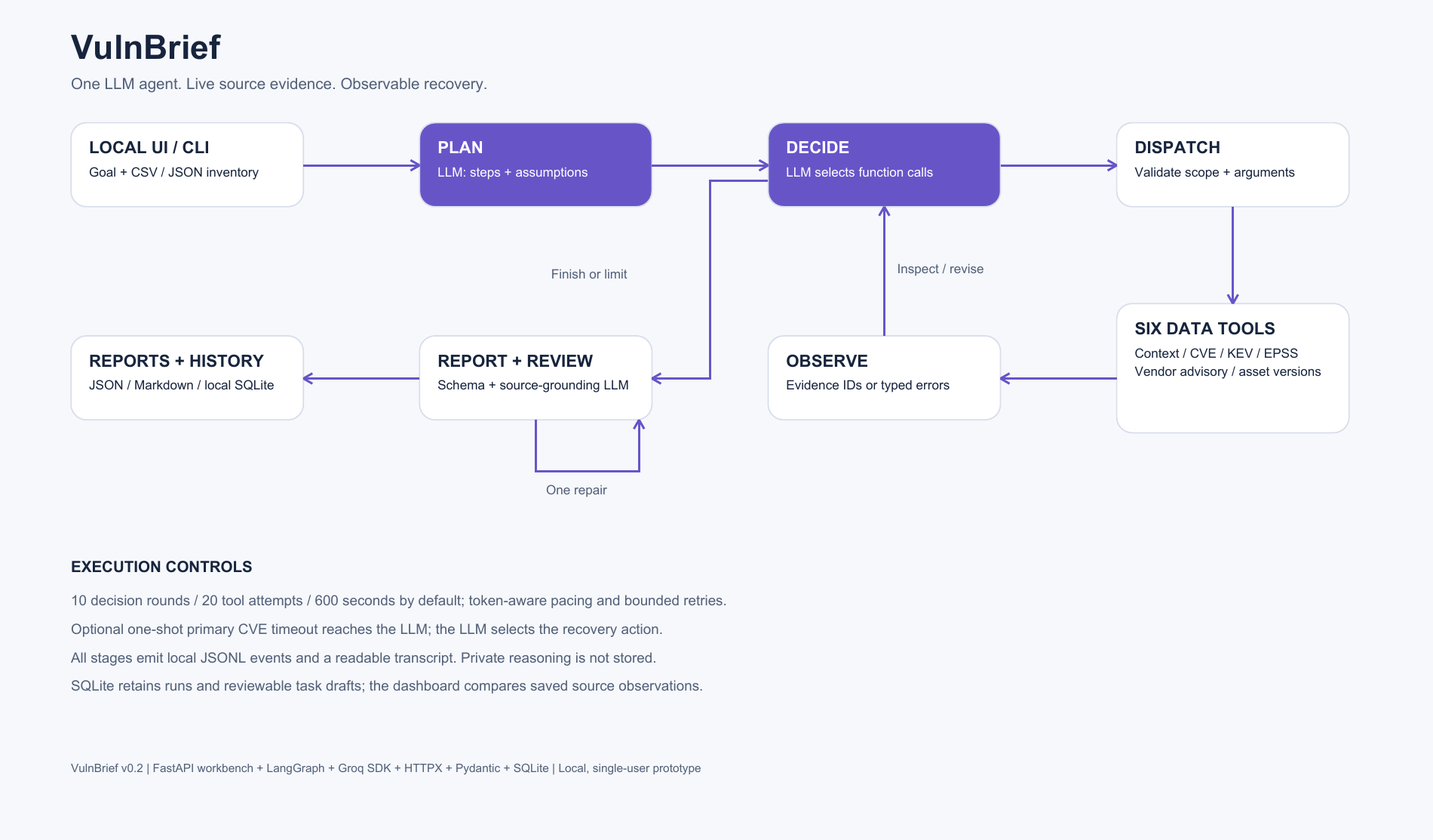
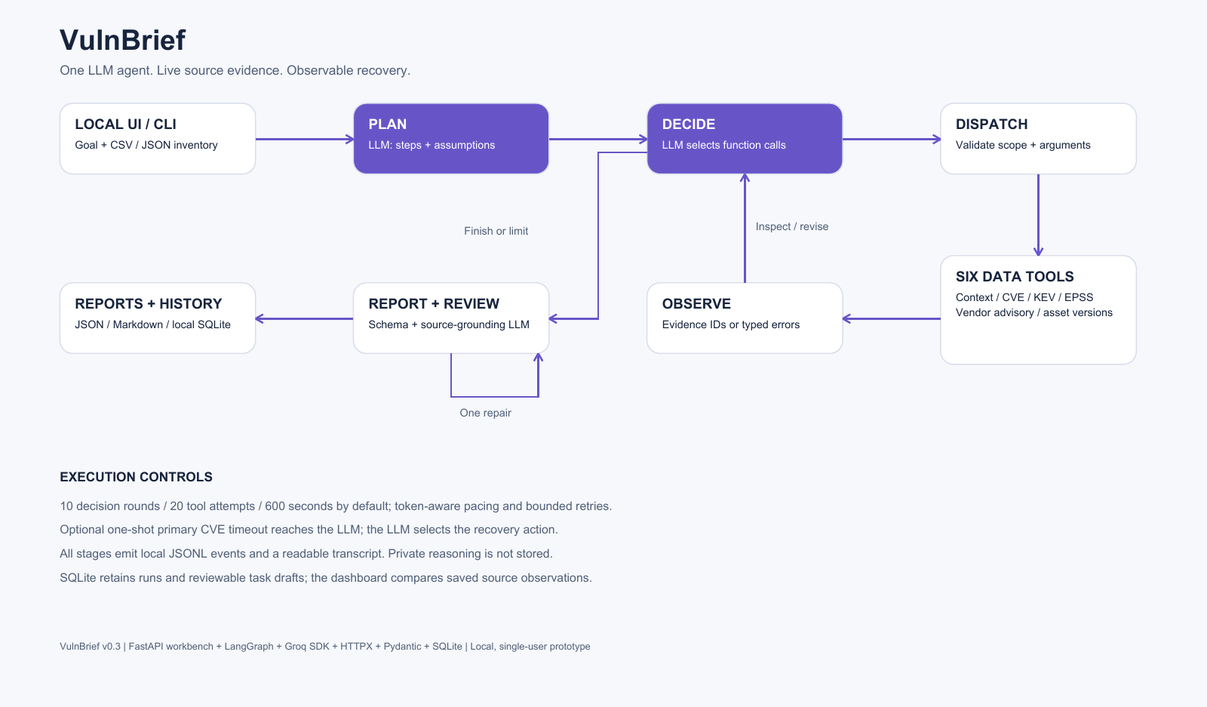
docs(release): publish v0.3 reviewer guidance and verification limits
Lead the README with a genuine workbench screenshot and the recorded walkthrough.
Document exact citation inspection, unknown-data handling, key-free review paths,
browser checks and the separately installed wheel verification.

Refresh the one-page design and architecture, keep source packaging below 10 MB,
and disclose every live evaluation outcome including provider quota exhaustion.
Preserve historical reports and distinguish automated checks from semantic truth,
accessibility certification and production reliability.

diff --git a/scripts/package_submission.py b/scripts/package_submission.py
@@ -6,10 +6,11 @@ BASE = Path(__file__).resolve().parents[1]
 ROOT_FILES = {"README.md", "pyproject.toml", "requirements-lock.txt", ".gitignore", ".gitattributes",
               ".env.example", "CHANGELOG.md", "CONTRIBUTING.md", "SECURITY.md"}
 ALLOWED = {
-    "src": {".py", ".html", ".css", ".js"}, "tests": {".py", ".txt"}, "examples": {".json", ".md", ".csv"},
+    "src": {".py", ".html", ".css", ".js", ".mjs"}, "tests": {".py", ".txt"}, "examples": {".json", ".md", ".csv"},
     "docs": {".md", ".txt", ".mmd", ".png", ".pdf"},
     "artifacts": {".md", ".json", ".jsonl"}, "scripts": {".py"},
     ".github": {".md", ".yml"},
+    "ui-tests": {".mjs", ".json", ".md"},
 }
 
 
@@ -18,7 +19,7 @@ def package(destination: Path):
     paths = [BASE / name for name in sorted(ROOT_FILES)]
     for folder, suffixes in ALLOWED.items():
         paths.extend(p for p in (BASE / folder).rglob("*") if p.is_file()
-                     and p.suffix in suffixes and "__pycache__" not in p.parts)
+                     and p.suffix in suffixes and not set(p.parts)&{'__pycache__','node_modules','test-results','playwright-report'})
     with zipfile.ZipFile(destination, "w", zipfile.ZIP_DEFLATED) as archive:
         for p in paths:
             if p.exists():
@@ -32,4 +33,4 @@ def package(destination: Path):
 
 
 if __name__ == "__main__":
-    package(BASE.parent / "output" / "vulnbrief-v02-submission.zip")
+    package(BASE.parent / "output" / "vulnbrief-v03-submission.zip")

diff --git a/scripts/build_docs.py b/scripts/build_docs.py
@@ -73,7 +73,7 @@ def architecture():
         "All stages emit local JSONL events and a readable transcript. Private reasoning is not stored.",
         "SQLite retains runs and reviewable task drafts; the dashboard compares saved source observations."]):
         c.drawString(55,181-i*22,line)
-    c.setFont("Helvetica",9); c.drawString(55,52,"VulnBrief v0.2 | FastAPI workbench + LangGraph + Groq SDK + HTTPX + Pydantic + SQLite | Local, single-user prototype")
+    c.setFont("Helvetica",9); c.drawString(55,52,"VulnBrief v0.3 | FastAPI workbench + LangGraph + Groq SDK + HTTPX + Pydantic + SQLite | Local, single-user prototype")
     c.save()
 
 

diff --git a/README.md b/README.md
@@ -1,14 +1,20 @@
-# VulnBrief v0.2
+# VulnBrief v0.3
 
 [![CI](https://github.com/Avan1sh/vulnbrief/actions/workflows/ci.yml/badge.svg)](https://github.com/Avan1sh/vulnbrief/actions/workflows/ci.yml)
 ![Python 3.10+](https://img.shields.io/badge/Python-3.10%2B-3776AB)
-![Release 0.2.0](https://img.shields.io/badge/Release-0.2.0-68794E)
+![Release 0.3.0](https://img.shields.io/badge/Release-0.3.0-68794E)
 
 A single LLM agent that investigates a small CVE watchlist, chooses live tools, revises its actions after failures, and produces an evidence-linked prioritization report.
 
 The upgraded local workbench adds asset/version checks, current vendor guidance, field-level recommendation citations, reviewable task drafts, persistent investigation history, and snapshot comparisons. Version applicability is a deliberately narrow PAN-OS pilot; unsupported cases remain unverified.
 
 The model makes the plan, tool selections, priorities and recommendations. Python validates inputs, executes read-only tools, records evidence and bounds the run. No stored answers, canned report mode, severity-to-priority lookup table, or copied public agent implementation is used.
+
+![Actual VulnBrief workbench showing three recorded investigations and a selected asset analysis](docs/screenshots/workbench.png)
+
+[Watch the actual 90-second walkthrough](https://github.com/Avan1sh/vulnbrief/releases/download/v0.3.0/vulnbrief-demo.webm) · [Inspect a cited source value](docs/screenshots/evidence-inspector.png) · [Phone layout](docs/screenshots/mobile.png)
+
+The silent video shows the real local application opening recorded LLM/source runs. It makes no new LLM requests and is labeled accordingly. Video is distributed separately as a release asset to keep the assessment source ZIP below 10 MB.
 
 ## Review the project
 
@@ -64,9 +70,13 @@ If the default model's quota is unavailable, set `VULNBRIEF_MODEL=openai/gpt-oss
 
 Open [the local dashboard](http://127.0.0.1:8787). It provides goal entry, CSV/JSON inventory selection, model selection, live execution events, findings, asset assessments, expandable source observations, artifact downloads, task review/export, and two-run comparisons. It uses FastAPI with a small HTML/CSS/JavaScript frontend, without a Node build step. Binding is restricted to localhost. This is a single-user prototype; do not expose it as a public service.
 
+Start with **Asset investigation**, **Failure recovery**, or **Missing information**. Each opens an explicitly dated original run without using a key. The six-step **guided tour** visits the version outcomes, an exact citation, the injected timeout, unknown information, task drafts, and live-input controls. It never starts a new investigation. The default selection is the successful asset demonstration; all development failures remain in the filterable history.
+
+Click a citation to open the evidence inspector. It places the selected claim beside the original source field, source URL, retrieval timestamp and source date; missing null values stay visible. Escape closes the dialog and returns keyboard focus. The KEV summary distinguishes retrieved catalog absence from missing or conflicting observations. Tabs support arrow keys, and drafts show the selected investigation unless **Show all investigations** is enabled.
+
 Use **Use fictional example** to load `examples/asset_inventory.csv`. That inventory includes a potentially affected version, a version matching the vendor's unaffected range, and a missing version. No real asset is scanned. Inventory context is included in requests to the configured LLM; use synthetic/non-sensitive inputs for the assessment.
 
-One worker executes investigations sequentially, with at most three queued/running jobs. Credentials stay server-side and are not returned by the API. Cross-origin mutation requests are rejected. Model/source text is rendered as text rather than executable HTML. Browser visual verification was blocked by the Computer Use URL-confidence check; API tests, HTML/JS reference checks, and JavaScript syntax checks are recorded separately.
+One worker executes investigations sequentially, with at most three queued/running jobs. Credentials stay server-side and are not returned by the API. Cross-origin mutation requests are rejected. Model/source text is rendered as text rather than executable HTML. v0.3 adds isolated Chromium checks at 1440, 768 and 390 pixels, automated accessibility scans, keyboard/modal checks and inspected real screenshots. These checks do not constitute full accessibility certification or cross-browser coverage. See the [verification record](docs/verification-v03.md).
 
 ## Asset assessment and current advisories
 
@@ -159,6 +169,8 @@ Specify up to three CVEs in the goal, the context file, or both. Context format:
 - Failed requests have a separate `ERR...` namespace with tool arguments, code and time; errors never consume or invalidate successful `E...` evidence IDs.
 - Summaries and recommended actions cite JSON-pointer paths directly inside `evidence.data`. References are checked for existence and CVE/asset-row scope. Action prerequisites are required. Valid pointers make support inspectable; they are not a semantic proof.
 - If an action names a concrete version, the same version must occur in its cited source values. Runtime-generated `version_citations` help prevent selecting a neighboring fixed-version entry. This check does not prove every natural-language inference or version-range statement.
+- An additional guard checks common upgrade/install wording: a named target must cite its exact current vendor `fixed_version_candidates` entry. An affected-version description cannot supply that proof. This lexical check is deliberately narrow; it is not a complete natural-language verifier.
+- A selected inventory that was not read and assessed prevents complete status. Plan JSON gets at most one schema correction before data tools; provider failures still stop explicitly. The model chooses its tools and next actions.
 - Source-assigned CVSS values are attached directly by the runtime and displayed separately from the LLM's priority judgment. Missing source severity is not filled with an invented metric.
 - Failed KEV retrieval is unknown, not absence. Catalog absence does not prove no exploitation.
 - Missing EPSS remains null. EPSS is general exploitation likelihood over the next 30 days, not the probability a particular asset will be compromised.
@@ -186,7 +198,21 @@ Upgrade regressions also cover hotfix boundaries, unsupported branches, CSV pars
 
 Real sample runs and actual metrics are in [sample runs](artifacts/sample-runs.md) and [evaluation summary](artifacts/evaluation-summary.md). Raw events and the full structured source observations are included alongside each report. These artifacts are examples, not the source of runtime responses. A three-run sample cannot establish production reliability or classifier precision/recall.
 
-The unit/API suite needs no API key. [GitHub Actions](https://github.com/Avan1sh/vulnbrief/actions) runs those checks on Ubuntu with Python 3.10/3.12 and Windows with Python 3.10, checks frontend syntax/publication hygiene, and builds a wheel. Live LLM runs remain separate. See [contributing](CONTRIBUTING.md), [security scope](SECURITY.md), and [changelog](CHANGELOG.md).
+The unit/API suite needs no API key. [GitHub Actions](https://github.com/Avan1sh/vulnbrief/actions) runs those checks on Ubuntu with Python 3.10/3.12 and Windows with Python 3.10, checks presentation logic/publication hygiene, and builds a wheel. A separate Ubuntu job exercises the actual reviewer flow and automated accessibility checks in Chromium. Live LLM evaluation remains separate. See [contributing](CONTRIBUTING.md), [security scope](SECURITY.md), and [changelog](CHANGELOG.md).
+
+## Repeated-trial agent evaluation
+
+[Eight self-authored cases](examples/evaluation-suite.json) define observable expectations for missing records, unsupported vendors, version boundaries, timeout recovery, unknown versions, context injection, mixed watchlists and scope limits. They prescribe neither a fixed tool sequence nor a fixed priority/answer. The [executed v0.3 batch](artifacts/evaluation-v03/summary.md) records each actual trial, checks, model, runtime fingerprint, bounds, tokens and latency. Defined cases that were not executed are not counted as successful tests.
+
+```powershell
+.\.venv\Scripts\python.exe scripts/evaluate_agent.py --cases missing_record,unsupported_vendor,scope_guard --trials 2 --max-total-tokens 80000 --output artifacts/my-new-evaluation
+```
+
+This uses real Groq requests and live public sources; configure your own key and use a **new** output directory. The token limit is checked between trials and may be exceeded by the last trial. Each trial is additionally bounded to eight decision rounds, twelve data-tool attempts and 480 seconds by default. Daily quota exhaustion stops the batch explicitly. No source responses or LLM outputs are mocked or replayed by this harness. Unit tests separately verify the grading logic with synthetic events.
+
+The checks grade scope, references, required tool coverage, unknown-value preservation, accepted review and the observed recovery sequence as applicable. They do not establish that every natural-language claim is true. No semantic claim-accuracy score, classifier precision/recall or production reliability estimate is fabricated. Failed runs and unexecuted planned trials stay visible in the summary.
+
+The first batch exposed skipped inventory, a plan-schema failure and an unsupported fixed-version inference. [Findings and the resulting fixes](docs/evaluation-findings-v03.md) link the original failures and separately fingerprinted follow-up trials. The model can still fail citation validation; such runs are retained as failures rather than silently published as accepted reports.
 
 ## Code map
 

diff --git a/docs/release-notes.md b/docs/release-notes.md
@@ -1,4 +1,4 @@
-# VulnBrief 0.2.0
+# VulnBrief 0.3.0
 
 VulnBrief is a bounded LLM agent for vulnerability investigation and asset-aware
 triage. It plans from a natural-language goal, chooses live tools, observes their
@@ -6,6 +6,12 @@ results, and produces an evidence-linked report with explicit uncertainty.
 
 ## Included
 
+- A reviewer landing page and six-step tour of explicitly dated recorded real
+  investigations, with no new LLM requests during playback.
+- An accessible exact-field evidence inspector, unknown-aware KEV summaries,
+  filtered history and responsive desktop/tablet/phone layouts.
+- Genuine screenshots and a silent 90-second WebM walkthrough. The large video
+  is a separate release asset to keep the source ZIP below 10 MB.
 - Live CVE, CISA KEV, FIRST EPSS and supported vendor advisory tools.
 - A narrow PAN-OS version pilot with affected, version-unaffected and unverified
   outcomes based on retrieved vendor tables.
@@ -15,6 +21,8 @@ results, and produces an evidence-linked report with explicit uncertainty.
   and source/asset comparisons.
 - Source code, setup instructions, architecture image, a one-page design write-up,
   tests, and genuine demonstration traces, including retained failed attempts.
+- A repeatable live evaluation harness with eight defined cases, two-trial
+  batches, runtime fingerprints and explicit behavioral checks.
 
 ## Run locally
 
@@ -28,18 +36,39 @@ After installing and configuring `.env`, run `python -m vulnbrief serve --port
 
 ## Validation
 
-- Retained local result: **46 tests passed**.
+- **57 Python/API tests, eight presentation tests and nine browser tests passed**
+  locally. The browser suite also passed against the separately installed wheel.
 - Separate wheel installation and dependency checks passed.
 - Three selected real upgraded runs: complete asset investigation, complete
   injected-timeout recovery, and partial missing-data investigation.
-- Public API/static frontend checks passed. Browser visual verification was not
-  completed because the automation could not establish the active URL confidently.
+- Isolated Chromium checks passed at desktop, tablet and phone widths, including
+  automated accessibility scans and keyboard/modal behavior. Real screenshots,
+  video frames and the one-page PDF were visually inspected. This is not full
+  accessibility certification or coverage of every browser engine.
 - GitHub CI results are reported by the repository workflow, separately from
   recorded local checks.
 
 See [sample evidence](https://github.com/Avan1sh/vulnbrief/blob/main/artifacts/sample-runs.md),
 [engineering evaluation](https://github.com/Avan1sh/vulnbrief/blob/main/artifacts/evaluation-summary.md),
 and [source-support limits](https://github.com/Avan1sh/vulnbrief/blob/main/docs/source-review.md).
+
+## What the broader evaluation found
+
+The original six-trial batch includes four real LLM/live-source investigations
+and two scope guards with zero LLM calls. Missing-data handling and scope guards
+passed their applicable checks. Unsupported-vendor trials exposed skipped
+inventory, a schema failure and an unsupported upgrade inference.
+
+Those findings prompted a bounded plan correction, stricter inventory completeness
+and named upgrade-target validation. Both follow-up trials read and assessed the
+inventory; one then failed citation validation and the other exhausted the free
+provider's daily quota. Neither is presented as a completed successful report.
+The two runtimes and budgets are recorded separately. Read
+[the full findings](https://github.com/Avan1sh/vulnbrief/blob/main/docs/evaluation-findings-v03.md).
+
+Free API quota may be unavailable after repeated evaluations. Recorded examples
+remain usable without a key or new LLM calls. No aggregate production reliability
+or classifier precision/recall claim is made.
 
 ## Boundaries
 

diff --git a/docs/verification-v03.md b/docs/verification-v03.md
@@ -1,0 +1,55 @@
+# v0.3 verification record
+
+The v0.2 browser check was blocked by its Computer Use active-URL confidence
+check. v0.3 uses an isolated, development-only Playwright Chromium instance with
+a fresh profile against the localhost QA server. It does not operate the user's
+personal browser session. No screenshot or demo output was generated with AI.
+
+## Completed checks
+
+- Python/API regressions: see `tests/test-results.txt`.
+- Eight Node presentation tests cover missing/partial/conflicting KEV observations,
+  successful evidence after a failure, and runtime phase labels.
+- Nine browser tests cover actual retained-run navigation, no new LLM calls during
+  the tour, exact citation inspection, Escape/focus return, keyboard tabs, retained
+  failures, mobile dialog size, and the unknown-KEV regression.
+- The same nine checks also passed against a separately installed 0.3.0 wheel on
+  the normal localhost dashboard port; package dependencies passed `pip check`.
+- Automated axe WCAG A/AA-tagged checks passed on the loaded findings page at
+  1440, 768 and 390 CSS pixels, and inside the mobile citation dialog.
+- Real screenshots of the workbench, investigation, inspector and phone page were
+  captured and visually inspected. Screenshot files are in `docs/screenshots/`.
+- A genuine silent 90-second browser walkthrough opens the same retained runs.
+  `artifacts/demo-recording.json` records its provenance and scene times. It starts
+  zero new LLM investigations. The large video is a separate release asset.
+- The refreshed design PDF remains one A4 page and was rendered and inspected.
+
+The checks exposed Windows serving `.mjs` as text/plain and insufficient contrast
+in table headings. Both were fixed before the passing run. Earlier failed test
+artifacts remain in the ignored local browser-test output; the public report
+records the final run.
+
+## Reproduce
+
+Install the Python package and Node 24+, activate that Python virtual environment,
+then run from `ui-tests/`:
+
+```text
+npm ci
+npx playwright install chromium
+npm run test:logic
+npm test
+```
+
+Playwright starts a localhost server automatically unless an existing QA server
+is available. On Linux CI, use `npx playwright install --with-deps chromium`.
+`npm run capture` records genuine UI screenshots and the video. The tools are
+development dependencies; the application itself needs no Node runtime.
+
+## Boundaries
+
+Automated scans do not prove complete accessibility. Browser tests use Chromium,
+not every engine or assistive technology. The loaded page contains public CVE
+observations and fictional assets. UI/API checks exercise navigation and contracts;
+they do not prove semantic claim accuracy or real device applicability. Repeated
+live evaluations have a separate quota-bounded report and are not triggered by CI.

diff --git a/docs/interview-guide.md b/docs/interview-guide.md
@@ -1,10 +1,26 @@
 # Explaining VulnBrief
 
+## v0.3 reviewer and evaluation additions
+
+Use the recorded-run cards and guided tour to demonstrate actual prior executions
+without spending API quota. Open a citation in the inspector and distinguish the
+selected claim, exact source value, source date and retrieval time. Explain why
+missing KEV evidence shows Unknown and why a valid pointer is not semantic proof.
+
+The repeated evaluation retains six original trials and two separately recorded
+follow-ups. Two original trials are scope guards with zero LLM requests. Read
+`evaluation-findings-v03.md`: skipped inventory, a plan-schema error and an unsafe
+fixed-version inference motivated bounded corrections and stricter validation.
+The follow-ups inspected inventory but one failed citation validation and the
+other exhausted free quota. Do not describe those as successful reports or claim
+an overall model reliability percentage. Describe what was learned and what still
+needs independent validation.
+
 ## v0.2 additions to demonstrate
 
 Open the local workbench with `python -m vulnbrief serve`. Load the fictional CSV and show its three version outcomes. Open a recommendation's exact source field and distinguish source-assigned CVSS from the model's priority. Explain why version arithmetic is an execution tool, while investigation order and advice come from the LLM. Show local task review/export, then compare saved observations. Clarify that draft acceptance executes no system change, and edit-and-rerun starts a fresh investigation rather than resuming an LLM checkpoint.
 
-The new ERR identifiers prevent request failures from being confused with successful E evidence. Source-field existence and concrete version matching are deterministic checks, while model review remains fallible. The vendor pilot supports PAN-OS only. Browser visual verification was blocked by Computer Use's active-URL check; do not claim that visual test was completed.
+The ERR identifiers prevent request failures from being confused with successful E evidence. Source-field existence and concrete version matching are deterministic checks, while model review remains fallible. The vendor pilot supports PAN-OS only. The v0.2 Computer Use check was blocked; v0.3 subsequently completed isolated Chromium checks and screenshot inspection, with the limits recorded in verification-v03.md.
 
 ## 60-second introduction
 

diff --git a/docs/submission-fields.md b/docs/submission-fields.md
@@ -10,13 +10,13 @@ Review these against the actual form before submitting. This guide does not subm
 
 **Architecture upload:** `docs/architecture.png`.
 
-**Sample transcripts/logs:** `artifacts/sample-runs.md` combines the selected actual runs. Individual raw events, transcripts and reports are retained in the corresponding artifact directories. Earlier development runs are labeled separately in the evaluation summary.
+**Sample transcripts/logs:** `artifacts/sample-runs.md` combines the selected actual runs. Individual raw events, transcripts and reports are retained in the corresponding artifact directories. v0.3 adds repeated trials in `artifacts/evaluation-v03/` and separately recorded post-fix trials in `artifacts/evaluation-v03-followup/`; failures are disclosed in `docs/evaluation-findings-v03.md`.
 
 **Design write-up:** `docs/design-writeup.pdf` (one page), with matching text source.
 
 **Source:** GitHub repository: https://github.com/Avan1sh/vulnbrief. Use the public repository link in the code-link field once publication is verified. The release source ZIP provides the same source, documentation, tests and demonstration evidence without credentials or local runtime state.
 
-**Synthetic/test traces and labels:** `examples/scenarios.json` describes the self-authored goals, synthetic context, injected fault and expected observable behavior. The corresponding actual execution events are under `artifacts/`. Labels concern engineering behavior, not a trained detector's ground-truth malicious/benign classes.
+**Synthetic/test traces and labels:** `examples/scenarios.json` and `examples/evaluation-suite.json` describe self-authored goals, synthetic context, faults and expected observable behavior. Actual execution events are under `artifacts/`. Eight evaluation cases are defined; only executed trials count. Labels concern engineering behavior, not a trained detector's malicious/benign ground truth.
 
 **Monitoring report:** If optional for this Engineer track, leave it empty. If a response is required, attach `artifacts/evaluation-summary.md` as engineering telemetry and explain that a separate monitoring/detection agent was not the assigned project.
 

diff --git a/CHANGELOG.md b/CHANGELOG.md
@@ -1,5 +1,40 @@
 # Changelog
 
+## 0.3.0 - 2026-11-17
+
+### Added
+
+- Dated recorded-run cards and an accessible six-step reviewer tour that starts no
+  LLM calls; new live investigations remain explicitly separate.
+- A read-only exact-field citation inspector with source dates, original values,
+  linked report claims, keyboard focus return and visible null observations.
+- Filterable history, selected-run task views, observed execution phases and
+  desktop/tablet/phone refinements.
+- Eight presentation regressions and nine Playwright/axe browser checks, with a
+  dedicated browser CI job and genuine screenshots/video.
+- An eight-case live evaluation harness with bounded repeated trials, actual
+  source/model calls, runtime fingerprints and unedited failed outcomes.
+
+### Fixed
+
+- Missing or conflicting KEV evidence shows Unknown instead of a zero count.
+- Windows serves JavaScript modules with the required MIME type; table headings
+  meet the automated contrast checks on the tested pages.
+- Initial plan-schema failures receive one bounded correction. A selected but
+  unread/unassessed inventory prevents complete report status.
+- Common named upgrade/install targets require exact current vendor candidate
+  citations rather than inference from an affected-version description.
+
+### Verification and limits
+
+57 Python/API tests, eight presentation tests and nine Chromium browser checks
+passed locally. Real UI screenshots and video frames were inspected. Repeated
+live trials exposed model/tool-use and citation failures; see
+[the findings](docs/evaluation-findings-v03.md). Automated accessibility checks,
+structural validation and LLM review do not prove full accessibility, semantic
+accuracy or production readiness. The source ZIP excludes the large video, which
+is distributed as a separate release asset.
+
 ## 0.2.0 — 2026-11-17
 
 ### Added

diff --git a/CONTRIBUTING.md b/CONTRIBUTING.md
@@ -26,6 +26,18 @@ is not an exhaustive secret scanner.
 CI runs the suite and builds a wheel on Ubuntu with Python 3.10/3.12 and Windows
 with Python 3.10. Live demonstrations are reviewed separately from those checks.
 
+The `ui-tests/` development package adds Playwright and axe checks. With Node 24+
+and the Python virtual environment activated, run `npm ci`,
+`npx playwright install chromium`, then `npm test` from that folder.
+The config starts a local server when needed. `npm run test:logic` exercises the
+pure presentation calculations. `npm run capture` records real screenshots and a
+silent tour; its large video is a release asset excluded from the source ZIP.
+
+The live evaluation harness is opt-in: `python scripts/evaluate_agent.py --help`.
+It uses your configured free API quota, preserves actual failures, and does not
+run during CI. Define expectations before observing results and report only the
+cases/trials actually executed.
+
 ## Evidence changes
 
 Add meaningful regression coverage when changing evidence scope, version

diff --git a/docs/source-review.md b/docs/source-review.md
@@ -1,5 +1,11 @@
 # Source-support review and limits
 
+v0.3 presentation note: reports retain schema 0.2 and their original model text.
+The new inspector exposes exact cited values without rewriting those claims.
+Current browser checks and repeated trials are recorded in `verification-v03.md`
+and `artifacts/evaluation-v03/summary.md`; historical findings below remain dated
+development observations.
+
 Version note: the baseline findings below refer to retained v0.1 attempts. v0.2 adds separate ERR IDs, exact source-field action references, version-claim value matching, current vendor guidance and an independent arithmetic asset comparison. The latest upgraded runs are labeled in the evaluation summary. These controls improve inspectability but do not prove every natural-language inference.
 
 This records the review method and development findings, not a claim that every sentence has been proven correct.

diff --git a/SECURITY.md b/SECURITY.md
@@ -1,6 +1,6 @@
 # Security scope
 
-VulnBrief 0.2 is a single-user localhost prototype. It has no enterprise identity,
+VulnBrief 0.3 is a single-user localhost prototype. It has no enterprise identity,
 tenant separation, or production hardening. Keep it bound to `127.0.0.1`; do not
 publish the server through a tunnel or expose it as a shared service.
 
